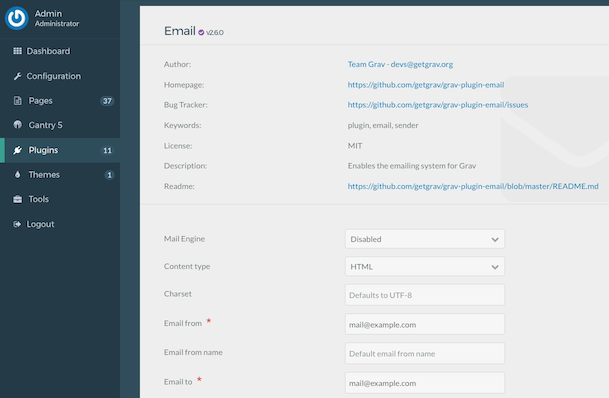
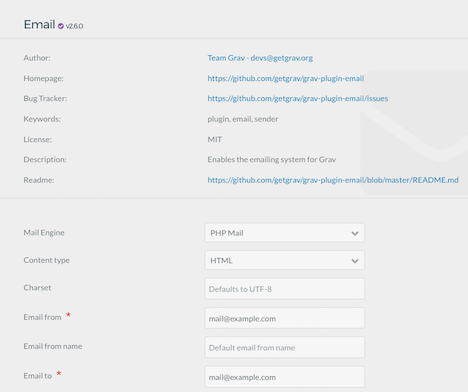
mail options flux grav

diff --git a/Docs/grav/themes/flux/contact.md b/Docs/grav/themes/flux/contact.md
@@ -23,6 +23,8 @@ If you are using a RocketLauncher, there is a contact form already set up and re
 
 You can do this using the **Email from** and **Email to** fields in the **Email** plugin. Access this plugin's settings by navigating to **Admin > Plugins > Email**.
 
+You'll also want to make sure you select a **Mail Engine** as nothing will be sent if this option is set to **Disabled**. If you want your site working right out of the box, **PHP Mail** is a good place to start.
+
 ## Customizing Fields
 
 >> This guide is useful for folks using the RocketLauncher. If you want a full from-scratch tutorial on creating a contact form, check out [Grav's documentation](https://learn.getgrav.org/forms/forms/example-form).
